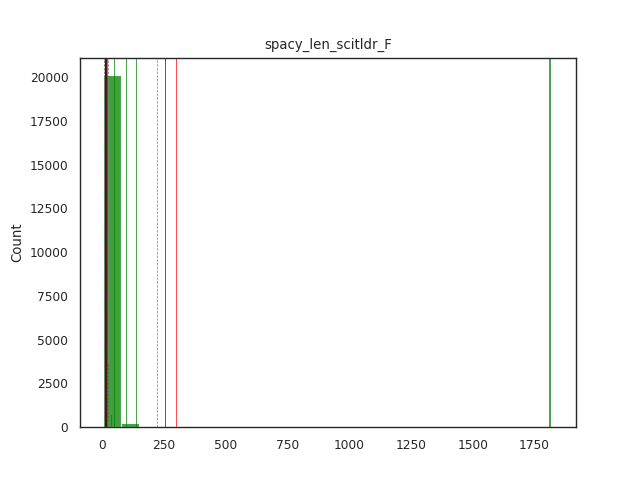
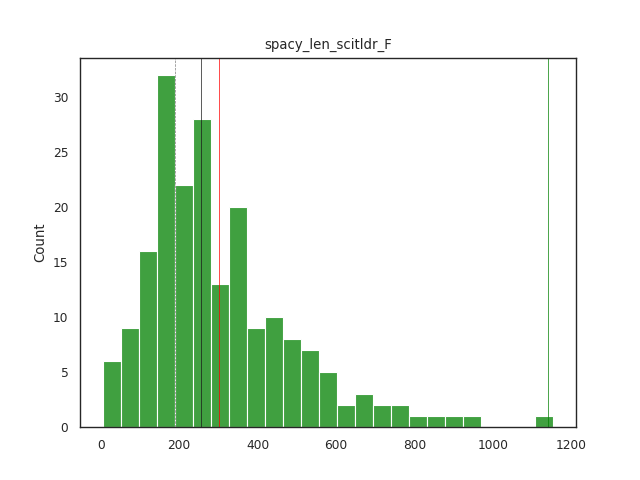
update plots.

diff --git a/generate_plot.py b/generate_plot.py
@@ -1,3 +1,4 @@
+import os
 from typing import List
 import pandas as pd
 import seaborn as sns
@@ -8,13 +9,16 @@ from LoadData import get_args, read_js
 from inspection import get_lens
 from similarity import get_simi
 
+# create folder plots to store figures if not exist
+os.makedirs("./plots/", exist_ok=True)
+
 sns.set_theme(style="white", palette="pastel")
 sns.despine(left=True)
 paper_rc = {"lines.linewidth": 0.5, "lines.markersize": 15}
 sns.set_context("paper", rc=paper_rc)
 
 
-def make_1df(ds: str, fe: str, cls: str, sts: List) -> pd.DataFrame:
+def stats2pd_1class(ds: str, fe: str, cls: str, sts: List) -> pd.DataFrame:
     df = pd.DataFrame()
     df[fe] = sts
     df = df.explode(fe, ignore_index=True)
@@ -24,8 +28,8 @@ def make_1df(ds: str, fe: str, cls: str, sts: List) -> pd.DataFrame:
     return df
 
 
-def make_dfs(
-    cls_sts: List, cls_names: List[str], ds_names: List[str], fe: str
+def stats2pd_allClasses(
+    stats_of_class: List, cls_names: List[str], ds_names: List[str], fe: str
 ) -> pd.DataFrame:
     df_list = []
     cls_n = len(cls_names)
@@ -33,8 +37,8 @@ def make_dfs(
 
     for i in range(ds_n):
         for j in range(cls_n):
-            df_ = make_1df(ds_names[i], fe, cls_names[j], cls_sts[i * cls_n + j])
-            df_list.append(df_)
+            df_tmp = stats2pd_1class(ds_names[i], fe, cls_names[j], stats_of_class[i * cls_n + j])
+            df_list.append(df_tmp)
 
     df = pd.concat(df_list, axis=0)
     df = df.reset_index(drop=True)
@@ -46,8 +50,8 @@ def make_dfs(
 def draw_violin(
     df: pd.DataFrame,
     name: str,
-    y_: str = "length",
-    hue_: str = "class",
+    y: str = "length",
+    hue: str = "class",
     savefig=True,
     showm=True,
 ):
@@ -56,8 +60,8 @@ def draw_violin(
     sns.violinplot(
         data=df,
         x="dataset",
-        y=y_,
-        hue=hue_,
+        y=y,
+        hue=hue,
         showmeans=True,
         ax=ax,
         scale="count",
@@ -68,12 +72,12 @@ def draw_violin(
     )
 
     if showm:
-        if y_ == "length":
+        if y == "length":
             sns.pointplot(
                 data=df,
                 x="dataset",
-                y=y_,
-                hue=hue_,
+                y=y,
+                hue=hue,
                 dodge=True,
                 capsize=0.15,
                 ci="sd",
@@ -85,8 +89,8 @@ def draw_violin(
             sns.pointplot(
                 data=df,
                 x="dataset",
-                y=y_,
-                hue=hue_,
+                y=y,
+                hue=hue,
                 dodge=True,
                 capsize=0.2,
                 ci=0,
@@ -96,12 +100,12 @@ def draw_violin(
                 scale=0,
                 palette={"ref": "#FF6103", "sum": "#FF6103"},
             )
-        if y_ == "similarity":
+        elif y == "similarity":
             sns.pointplot(
                 data=df,
                 x="dataset",
-                y=y_,
-                hue=hue_,
+                y=y,
+                hue=hue,
                 dodge=0.6,
                 capsize=0.15,
                 ci="sd",
@@ -113,8 +117,8 @@ def draw_violin(
             sns.pointplot(
                 data=df,
                 x="dataset",
-                y=y_,
-                hue=hue_,
+                y=y,
+                hue=hue,
                 dodge=0.6,
                 capsize=0.2,
                 ci=0,
@@ -124,14 +128,14 @@ def draw_violin(
                 scale=0,
                 palette={"mean": "#FF6103", "max": "#FF6103", "min": "#FF6103"},
             )
-            # sns.boxplot(data=df, x="dataset", y=y_, hue=hue_,showbox=False,showmeans=True,meanline=True,
-            # showcaps=False, ax=ax,showfliers=False,zorder=10,whiskerprops={'visible': False},meanprops={'color': 'yellow', 'ls': '-', 'lw': 1},
-            # medianprops={'color': 'red', 'ls': '-', 'lw': 1})
+        else:
+            raise ValueError("Invalid parameter for 'y_' specified!")
+
 
     handles, labels = ax.get_legend_handles_labels()
-    if y_ == "length":
+    if y == "length":
         labels_n = 1
-    if y_ == "similarity":
+    if y == "similarity":
         labels_n = 3
 
     ax.legend(
@@ -146,12 +150,13 @@ def draw_violin(
         plt.savefig(f"plots/{name}_violin.png", bbox_inches="tight")
 
 
+
 def draw_strip(
     df: pd.DataFrame,
     name: str,
     logscale=True,
-    y_: str = "length",
-    hue_: str = "class",
+    y: str = "length",
+    hue: str = "class",
     savefig=True,
     showm=True,
 ):
@@ -160,25 +165,21 @@ def draw_strip(
     sns.stripplot(
         data=df,
         x="dataset",
-        y=y_,
-        hue=hue_,
+        y=y,
+        hue=hue,
         dodge=True,
         size=2,
         jitter=True,
         ax=ax,
         palette="YlGnBu_d",
     )
-    # sns.boxplot(data=df, x="dataset", y=y_, hue=hue_,showbox=False,showmeans=True,meanline=True,
-    #         showcaps=False, ax=ax,showfliers=False,zorder=10,
-    #         whiskerprops={'visible': False},meanprops={'color': 'k', 'ls': '-', 'lw': 2},
-    #         medianprops={'color': 'red', 'ls': '-', 'lw': 2})
 
     if showm:
         sns.pointplot(
             data=df,
             x="dataset",
-            y=y_,
-            hue=hue_,
+            y=y,
+            hue=hue,
             capsize=0.15,
             ci="sd",
             join=False,
@@ -189,8 +190,8 @@ def draw_strip(
         sns.pointplot(
             data=df,
             x="dataset",
-            y=y_,
-            hue=hue_,
+            y=y,
+            hue=hue,
             capsize=0.2,
             ci=0,
             join=False,
@@ -215,16 +216,19 @@ def draw_strip(
             plt.savefig(f"plots/{name}_strip.png", bbox_inches="tight")
 
 
-def draw_bar(df: pd.DataFrame, logscale=True, y_: str = "length", hue_: str = "class"):
-    ax = sns.barplot(
+def draw_bar(df: pd.DataFrame,name, logscale=True, y: str = "length", hue: str = "class", savefig=True):
+    _, ax = plt.subplots()
+
+    sns.barplot(
         data=df,
         x="dataset",
-        y=y_,
-        hue=hue_,
+        y=y,
+        hue=hue,
         linewidth=0.5,
         ci="sd",
         capsize=0.1,
         palette="YlGnBu_d",
+        ax=ax
     )
 
     if logscale:
@@ -232,8 +236,15 @@ def draw_bar(df: pd.DataFrame, logscale=True, y_: str = "length", hue_: str = "c
 
     ax.legend(bbox_to_anchor=(1.05, 1), loc=2, borderaxespad=0.0)
 
+    if savefig:
+        if logscale:
+            plt.savefig(f"plots/{name}_log_bar.png", bbox_inches="tight")
+        else:
+            plt.savefig(f"plots/{name}_bar.png", bbox_inches="tight")
+
 
 def plot_pos(pos: List, name: str, savefig=True):
+    _, ax = plt.subplots()
 
     sns.histplot(
         pos,
@@ -243,20 +254,24 @@ def plot_pos(pos: List, name: str, savefig=True):
         color="green",
         line_kws=dict(lw=1.5),
         bins=50,
+        ax=ax
     )
     plt.title(name)
     if savefig:
         plt.savefig(f"plots/{name}_pos.png")
 
 
-def compute_show_ratio(sts: List, name: str, savefig=True):
+def cal_show_CompressionRatio(sts: List, name: str, savefig=True):
+    _, ax = plt.subplots()
+
     compression_ratio = sts[0] / sts[1]
     bw = np.ceil(np.max(compression_ratio) / 25)
-    sns.histplot(compression_ratio, color="green", binwidth=bw)
-    plt.axvline(x=np.mean(compression_ratio), label="mean", color="red")
-    plt.axvline(x=np.max(compression_ratio), label="mean", color="green")
-    plt.axvline(x=np.median(compression_ratio), label="median", color="k")
-    plt.axvline(x=np.std(compression_ratio), label="std", color="gray", linestyle="--")
+
+    sns.histplot(compression_ratio, color="green", binwidth=bw,ax=ax)
+    ax.axvline(x=np.mean(compression_ratio), label="mean", color="red")
+    ax.axvline(x=np.max(compression_ratio), label="mean", color="green")
+    ax.axvline(x=np.median(compression_ratio), label="median", color="k")
+    ax.axvline(x=np.std(compression_ratio), label="std", color="gray", linestyle="--")
     plt.title(name)
     if savefig:
         plt.savefig(f"plots/{name}_cpRatio.png")
@@ -266,7 +281,7 @@ if __name__ == "__main__":
     args = get_args()
 
     datasets = read_js("ds_name_list.json")
-    cls_sts = []
+    stats_of_class = []
 
     if args.stats[0] == "length":
         cls_names = ["ref", "sum"]
@@ -275,15 +290,15 @@ if __name__ == "__main__":
             sts = get_lens(
                 dataset, args.split[0], args.token_method[0], args.sample_propor
             )
-            cls_sts.append(sts.src.lens)
-            cls_sts.append(sts.tg.lens)
+            stats_of_class.append(sts.src.lens)
+            stats_of_class.append(sts.tg.lens)
 
             # Histogram of compression ratio with vertical lines (mean - red, max - green, median - black, std - dashed gray)
-            compute_show_ratio(
+            cal_show_CompressionRatio(
                 [sts.src.lens, sts.tg.lens], args.token_method[0] + "_len_" + dataset
             )
 
-        df = make_dfs(cls_sts, cls_names, datasets, "length")
+        df = stats2pd_allClasses(stats_of_class, cls_names, datasets, "length")
 
         # draw all datasets in one of (w/o logscale) stripplot marked with mean and std (black), median (orange).
         draw_strip(df, args.token_method[0] + "_len", logscale=False, showm=False)
@@ -298,14 +313,14 @@ if __name__ == "__main__":
 
         for dataset in datasets:
             sts = get_simi(dataset, args.split[0], args.sample_propor)
-            cls_sts.append(sts.mean)
-            cls_sts.append(sts.max)
-            cls_sts.append(sts.min)
+            stats_of_class.append(sts.mean)
+            stats_of_class.append(sts.max)
+            stats_of_class.append(sts.min)
 
             # Plot of distribution of relative position of most similar sentence in article
             plot_pos(sts.pos, dataset)
 
-        df = make_dfs(cls_sts, cls_names, datasets, "similarity")
+        df = stats2pd_allClasses(stats_of_class, cls_names, datasets, "similarity")
 
         # draw violin plot of distribution of mean, max, min of similarity, with mean and std (green), median (red)
-        draw_violin(df, "simi", y_="similarity")
+        draw_violin(df, "simi", y="similarity")
